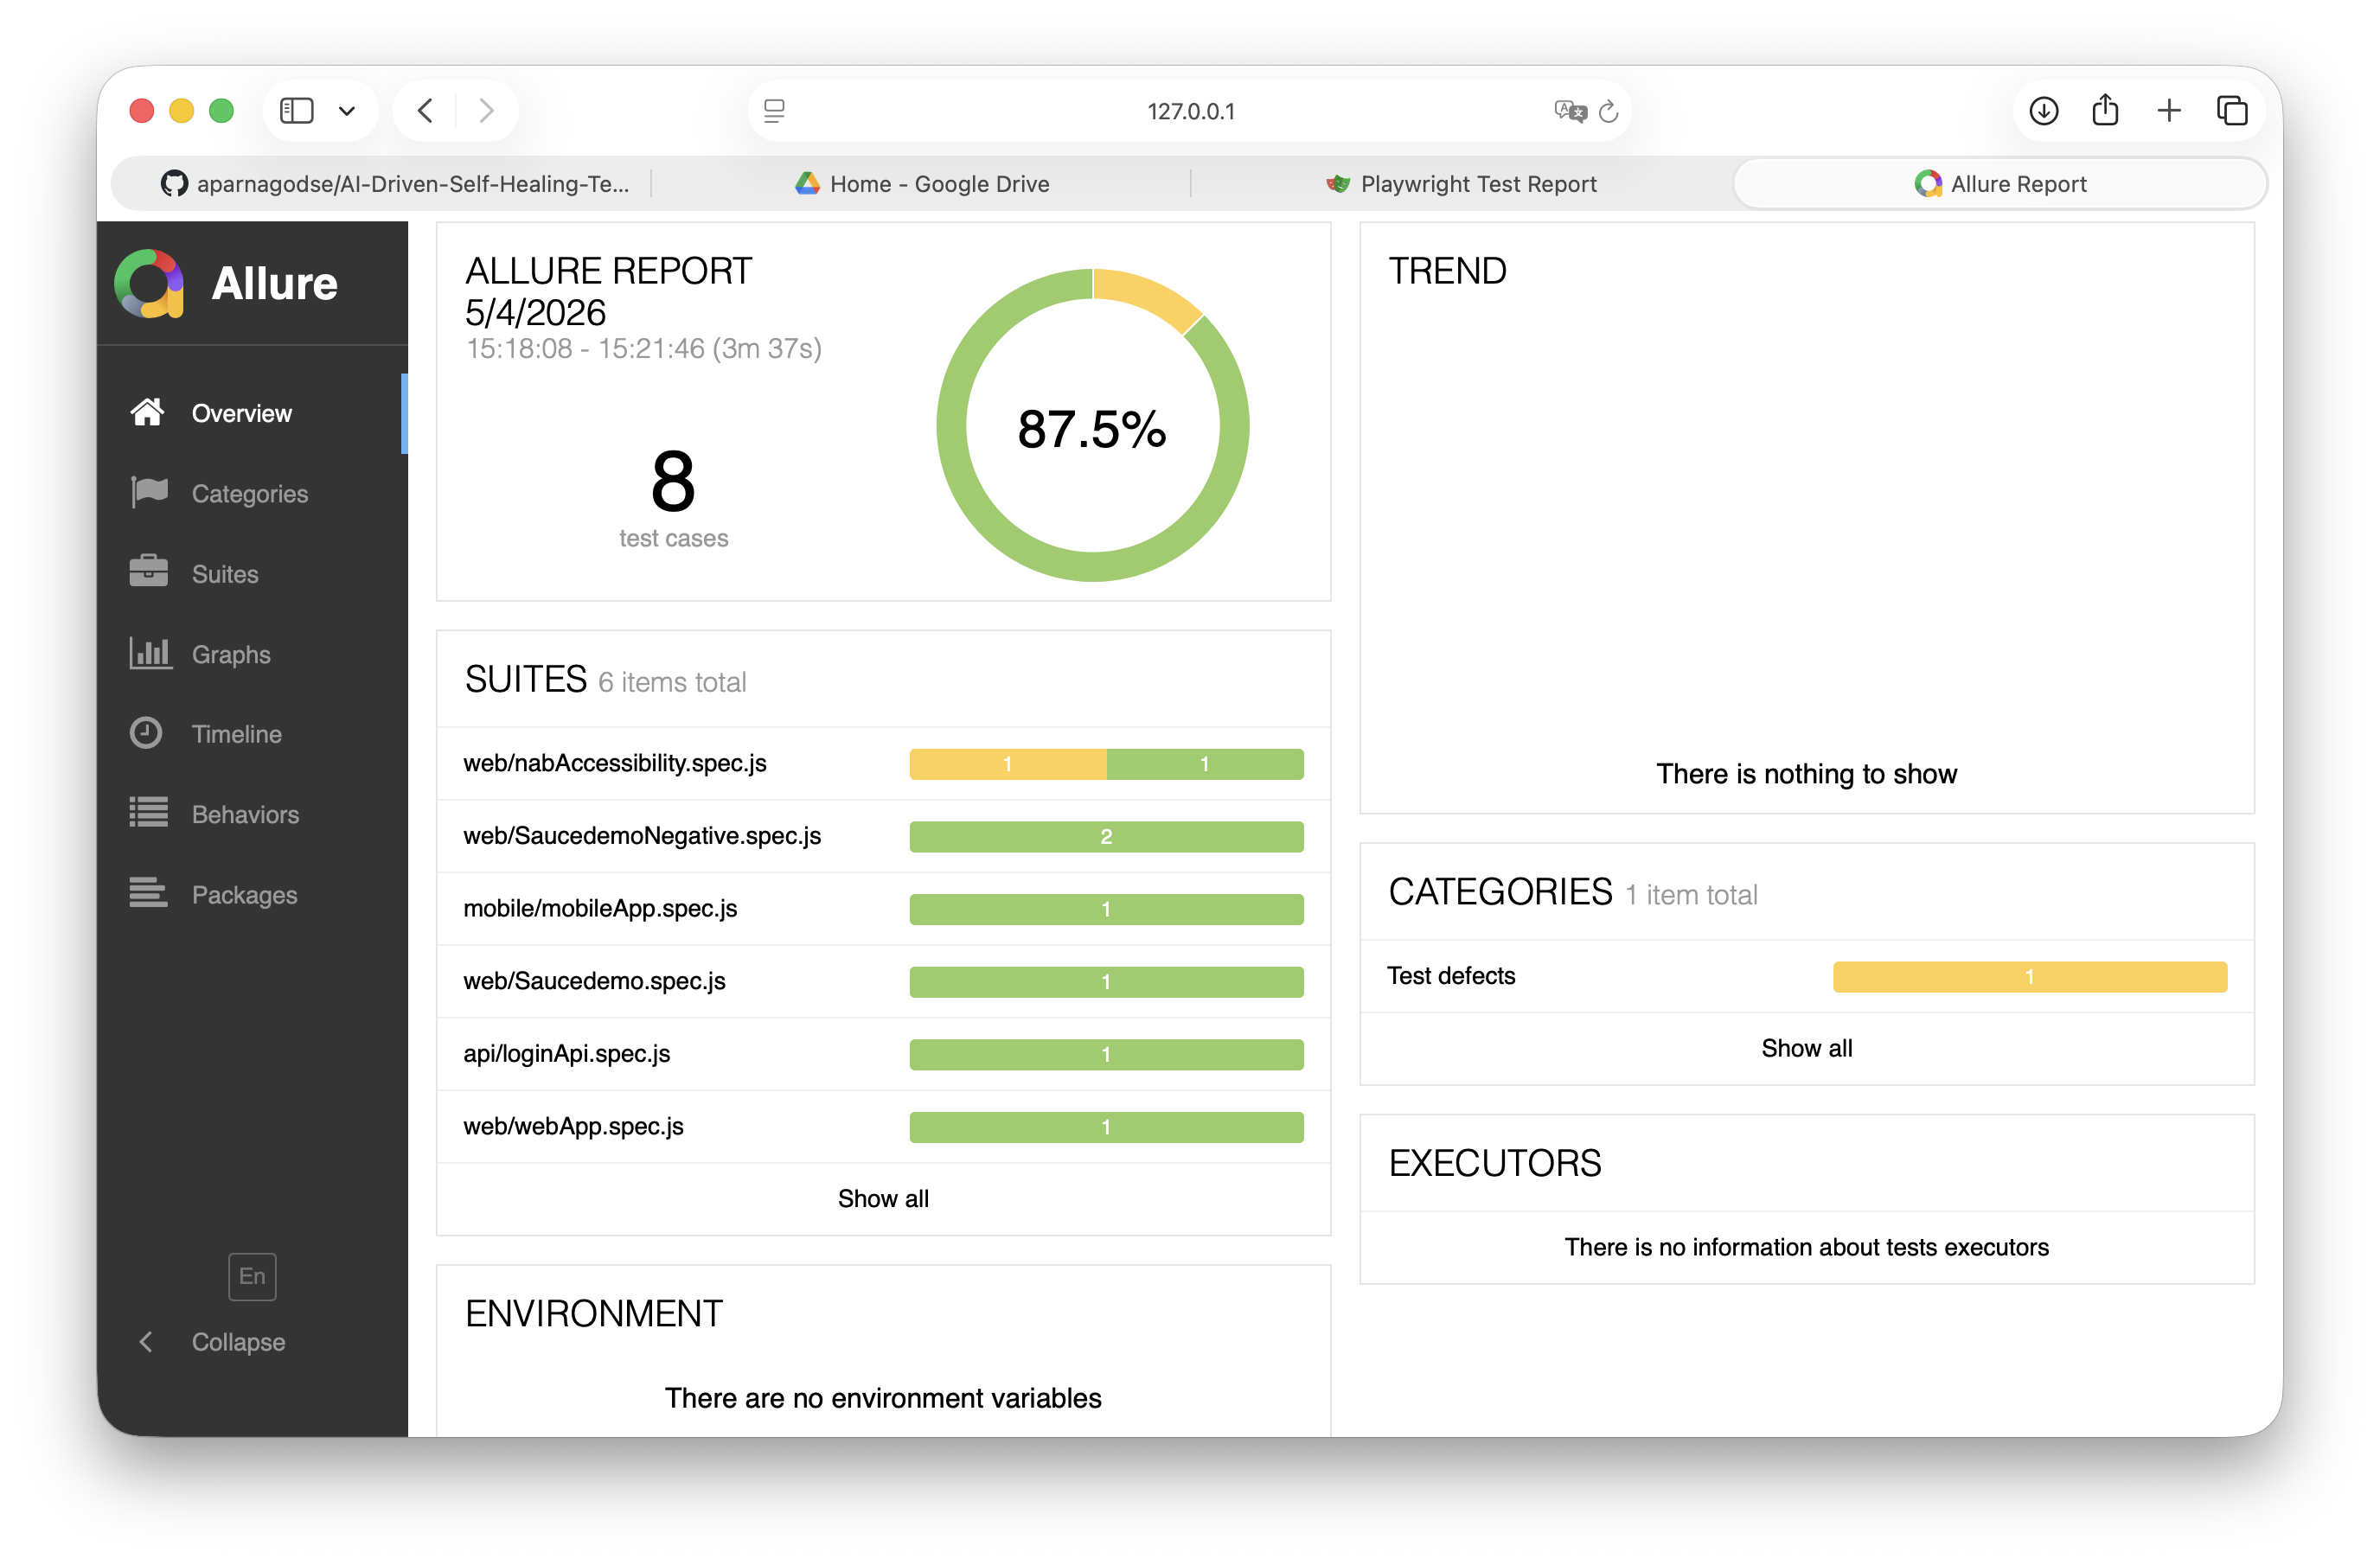
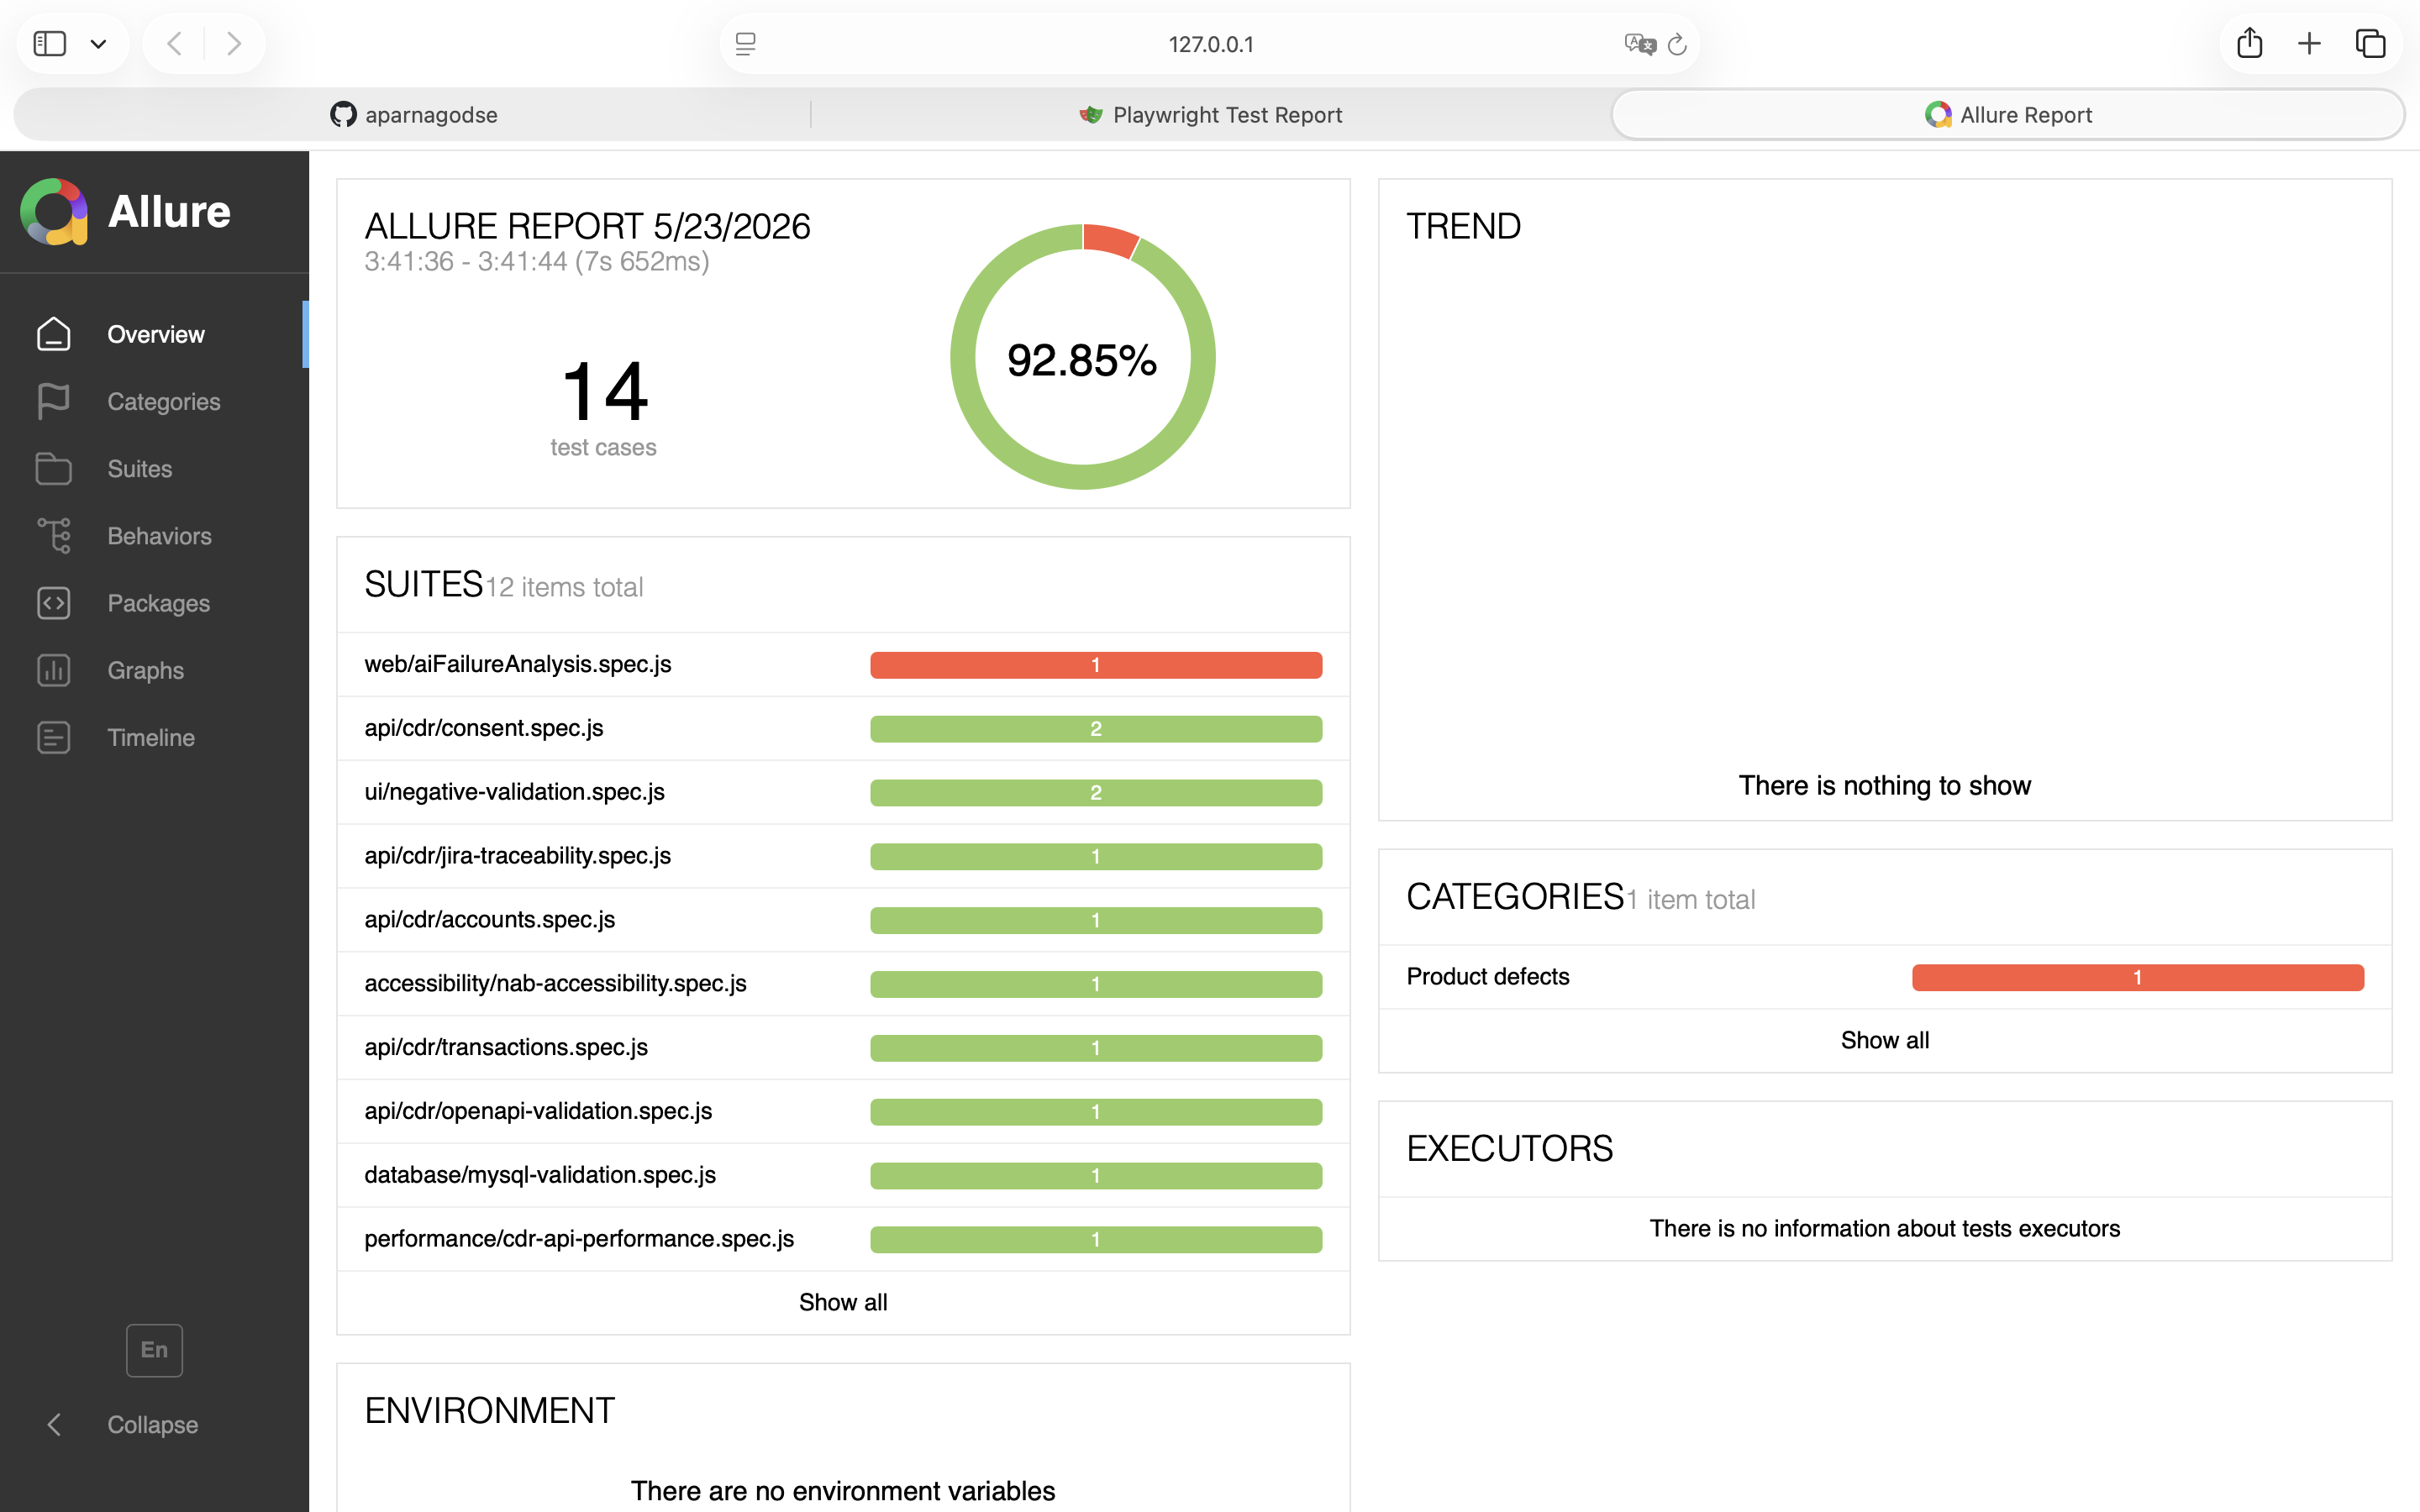
Enhanced enterprise QE framework with UI automation and Allure reporting

Changed region(s): [[0.0, 0.0311, 1.0, 1.0], [0.375, 0.1244, 0.5312, 0.3733], [0.6875, 0.4667, 0.8438, 0.5289]]

diff --git a/tests/ui/negative-validation.spec.js b/tests/ui/negative-validation.spec.js
@@ -6,7 +6,7 @@ import { CheckoutPage } from '../../pages/CheckoutPage.js';
 import { users, checkoutData } from '../../fixtures/testData.js';
 import { logStep } from '../../utils/helpers.js';
 
-test.describe('Saucedemo Negative Scenarios', () => {
+test.describe('Open Banking Negative Validation', () => {
   test('Invalid login should show error', async ({ page }) => {
     const loginPage = new LoginPage(page);
 

diff --git a/tests/ui/payment-transfer.spec.js b/tests/ui/payment-transfer.spec.js
@@ -6,7 +6,7 @@ import { CheckoutPage } from '../../pages/CheckoutPage.js';
 import { users, checkoutData } from '../../fixtures/testData.js';
 import { logStep } from '../../utils/helpers.js';
 
-test.describe('Saucedemo E-commerce Flow', () => {
+test.describe('Open Banking Payment Transfer Validation', () => {
   test('User can login, add products to cart, and start checkout', async ({ page }) => {
     const loginPage = new LoginPage(page);
     const inventoryPage = new InventoryPage(page);